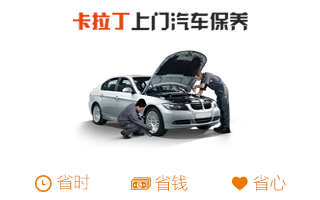
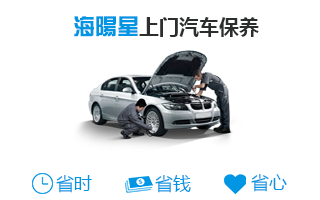
全局蓝色 #0096e3;

diff --git a/www/css/app.css b/www/css/app.css
@@ -1,18 +1,22 @@
 
- .bg-color {
+.bg-color {
     background: #f9f9f9;
 }
+
 .pane {
     background: #f9f9f9;
 }
+
 /*全局的标题颜色*/
- .article-header-color {
+.article-header-color {
     color: #666666;
 }
+
 /*全局的正文颜色*/
- .article-color {
+.article-color {
     color: #898989;
 }
+
 .ionic-logo {
     display: block;
     margin: 15px auto;
@@ -23,36 +27,44 @@
 .ionic-margin {
     margin: 20px 10px;
 }
+
 /*列表无边框设计*/
- .item-no-padding {
+.item-no-padding {
     padding: 0;
 }
+
 .item-no-board {
     border: 0;
 }
+
 a.item-no-board:after {
     display: none;
 }
+
 /*列表无边框设计结束*/
 
 /*左右滑动开始*/
- .swipe-div {
+.swipe-div {
     position: relative;
 }
+
 .swipe {
     overflow: hidden;
     visibility: hidden;
     position: relative;
 }
+
 .swipe-wrap {
     overflow: hidden;
     position: relative;
 }
+
 .swipe-wrap > div {
     float: left;
     width: 100%;
     position: relative;
 }
+
 .swipe-wrap img {
     width: 100%;
     display: block;
@@ -62,6 +74,7 @@ a.item-no-board:after {
     text-align: center;
     background: #fff;
 }
+
 .swipe-wrap p {
     position: absolute;
     left: 0;
@@ -78,10 +91,11 @@ a.item-no-board:after {
     height: 35px;
     margin: 0;
 
-    background:-moz-linear-gradient(top,rgba(0, 0, 0, 0),rgba(0, 0, 0, 0.2));/*Mozilla*/
-    background:-webkit-linear-gradient(top,rgba(0, 0, 0, 0),rgba(0, 0, 0, 0.2));/*new gradient for Webkit*/
-    background:-o-linear-gradient(top,rgba(0, 0, 0, 0),rgba(0, 0, 0, 0.2)); /*Opera11*/
+    background: -moz-linear-gradient(top, rgba(0, 0, 0, 0), rgba(0, 0, 0, 0.2)); /*Mozilla*/
+    background: -webkit-linear-gradient(top, rgba(0, 0, 0, 0), rgba(0, 0, 0, 0.2)); /*new gradient for Webkit*/
+    background: -o-linear-gradient(top, rgba(0, 0, 0, 0), rgba(0, 0, 0, 0.2)); /*Opera11*/
 }
+
 .swipe-ctr {
     position: absolute;
     right: .5em;
@@ -89,6 +103,7 @@ a.item-no-board:after {
     overflow: hidden;
     text-align: center
 }
+
 .swipe-ctr span {
     display: inline-block;
     width: 8px;
@@ -97,18 +112,22 @@ a.item-no-board:after {
     background: rgba(255, 255, 255, 0.7);
     margin: 0 2px
 }
+
 .swipe-ctr .cur {
     background: rgba(255, 255, 255, 1)
 }
+
 /*左右滑动结束*/
 
 /*左右滑动样式二*/
- .mod_index {
+.mod_index {
     display: -webkit-box;
 }
+
 ul, li {
     list-style: none;
 }
+
 .mod_index li {
     -webkit-box-flex: 1;
     height: 2px;
@@ -116,24 +135,33 @@ ul, li {
     display: list-item;
     text-align: -webkit-match-parent;
 }
+
 .mod_index .current {
-    background-color: #e33b3d;
+    background-color: #0096e3;
 }
+
 /*左右滑动样式二结束*/
 
 /*标题栏（默认样式）开始*/
- div[class ^=bar-] {
+div[class ^=bar-] {
     margin-bottom: 8px;
     margin-top: 8px;
 }
+
+.bar.bar-assertive {
+    background-color: #0096e3;
+}
+
 .bar-title {
     line-height: 20px;
     font-size: 18px;
 }
+
 .bar-title.t1 {
-    border-left: 4px solid #e55e5e;
+    border-left: 4px solid #0096e3;
     padding-left: 3px;
 }
+
 .bar-title h2 {
     display: block;
     margin: 0;
@@ -141,14 +169,16 @@ ul, li {
     font-size: 100%;
     color: #64a000;
 }
+
 /*标题栏结束*/
 
 /*新闻样式*/
- .article-header {
+.article-header {
     text-align: center;
     border-bottom: 1px solid #e0e0e0;
     margin-bottom: 10px;
 }
+
 .article-header .mod-title {
     line-height: 1.3em;
     font-size: 20px;
@@ -156,6 +186,7 @@ ul, li {
     padding: .8rem .5rem 0rem 0rem;
     background: 0;
 }
+
 .article-header .mod-text {
     font-size: 14px;
     color: #999;
@@ -164,19 +195,22 @@ ul, li {
     padding: 0 .5rem 0.5em 0;
 }
 
- .col-grids {
+.col-grids {
     padding: 2px;
     border: 1px solid #dddddd;
 }
+
 .lable-text-color {
     color: #f5655f;
     padding-left: 55%;
 }
+
 .lable-color-title {
     color: #666666;
     margin-left: 5px;
     margin-bottom: 3px;
 }
+
 .button.button-full1 {
     border-color: transparent;
     background-color: #EEEEEE;
@@ -188,6 +222,7 @@ ul, li {
     line-height: 35px;
     min-height: 30px;
 }
+
 .button.button-full2 {
     border-color: transparent;
     background-color: #F5655E;
@@ -196,6 +231,7 @@ ul, li {
     color: white;
     margin: auto;
 }
+
 .user-div {
     text-align: center;
     background: url("../img/user_bg.png");
@@ -203,14 +239,20 @@ ul, li {
     min-height: 152px;
     padding-top: 10px;
 }
+
 .user_avatar {
     border-radius: 95px 95px / 95px 95px;
     width: 120px;
     height: 120px;
     background-size: cover;
 }
+
 /*朝右的箭头*/
- .item-home5 {
+.item-home5 {
     margin: 0px;
     padding: 0px;
+}
+
+.common {
+    color: #0096e3;
 }

diff --git a/www/templates/home.html b/www/templates/home.html
@@ -16,7 +16,7 @@
             <img src="img/home-title.png">
         </div>
         <div>
-            <h4 style="text-align: center; color: #ee7700;">
+            <h4 style="text-align: center; color: #0096e3;">
                 立即预定上门保养服务
             </h4>
         </div>
@@ -26,7 +26,7 @@
 
         <div class="foot">
             客服电话:
-            <span style="color: #ee7700;">400-006-8181</span>
+            <span style="color: #0096e3;">400-006-8181</span>
 
             <p>若没找到车型，请拨打客服电话</p>
         </div>
